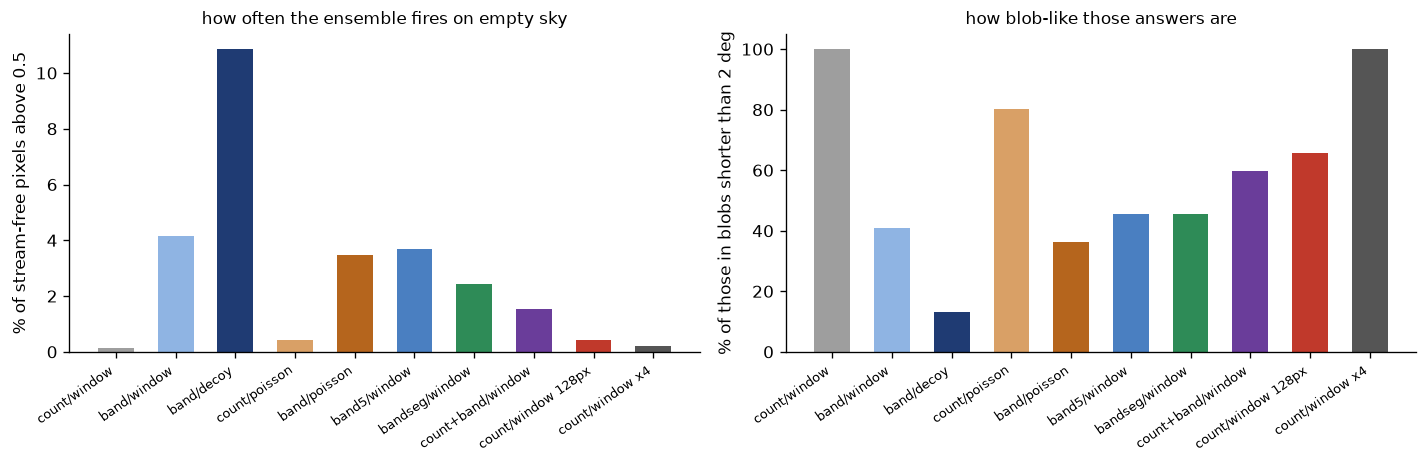
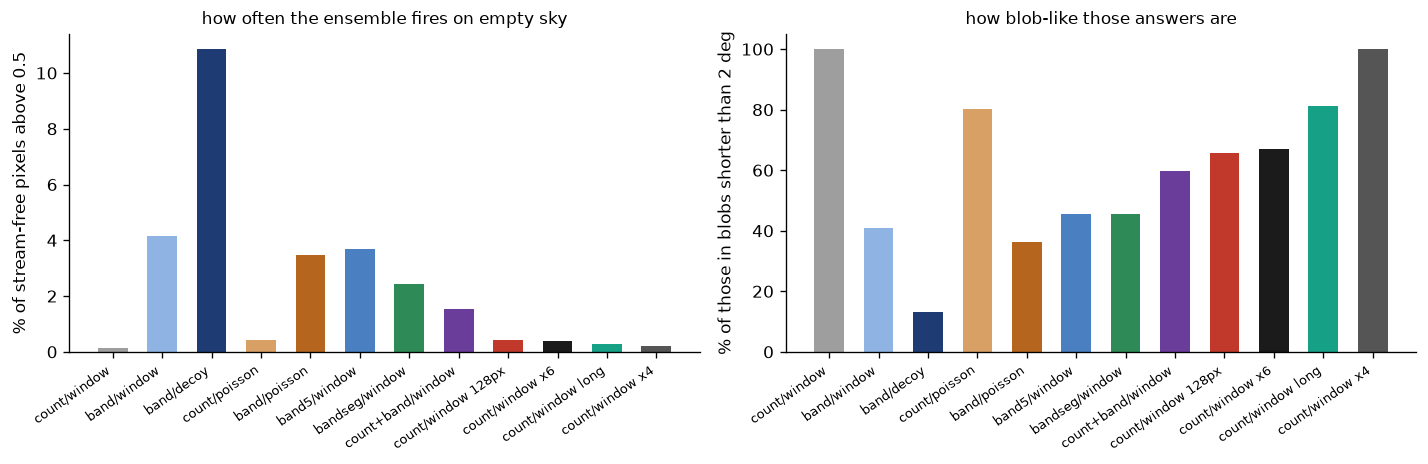
Real DES patches: sensitivity of more models, longer training, larger windows
A fainter evaluation set measures the input S/N at which half the copies are
found. Four quick models: near 12.1, far 8.9 (86% of copies); six, 19200
windows or 128-pixel windows do not do better.

Changed region(s): [[0.5238, 0.1207, 0.9552, 0.9655], [0.0308, 0.0905, 0.4622, 0.9655]]

diff --git a/scripts/experiments/real_des/patches.py b/scripts/experiments/real_des/patches.py
@@ -81,6 +81,14 @@ CONFIGS = {
     },
     # larger windows: 128 x 128 pixels (14.7 deg) instead of 96 (11 deg)
     "count/window 128px": {"label": "count", "normalizer": "window", "image_pix": 128},
+    # sensitivity levers: six quick models; two models trained four times longer
+    "count/window x6": {
+        "label": None,
+        "normalizer": "window",
+        "parts": ["count/window"],
+        "seeds": [42, 43, 44, 45, 46, 47],
+    },
+    "count/window long": {"label": "count", "normalizer": "window", "windows": 19200},
     # its fair reference: as many count-label models (four seeds)
     "count/window x4": {
         "label": None,
@@ -291,9 +299,10 @@ def train(config, seed, train_sky="A"):
         CONFIGS[config].get("image_pix", IMAGE_PIX),
     )
     start = time.time()
+    windows = CONFIGS[config].get("windows", WINDOWS)
     model, _, result = sp.train(
         seed,
-        WINDOWS,
+        windows,
         background,
         injector,
         training_set=rd.TRAINING_SET,
@@ -305,7 +314,7 @@ def train(config, seed, train_sky="A"):
             {
                 "config": config,
                 "seed": seed,
-                "windows": WINDOWS,
+                "windows": windows,
                 "train_s": time.time() - start,
                 "train_losses": result["train_losses"],
                 "val_losses": result["val_losses"],
@@ -402,8 +411,18 @@ def audit(n=300, labels=("count", "band")):
         pickle.dump(rows, handle)
 
 
-def evaluation_streams():
-    """(set, name, params) injected on patch B."""
+FAINTER_BY = (
+    1.0,
+    1.5,
+)  # mag/arcsec^2: the "fainter" set, near the real streams' strength
+
+
+def evaluation_streams(sets=("DES 2018", "distance scan")):
+    """(set, name, params) injected on the evaluation sky. Sets: "DES 2018"
+    (Table 1 parameters), "distance scan", and "fainter" (the DES 2018
+    streams made FAINTER_BY mag/arcsec^2 fainter -- the copies are brighter
+    than the real streams, so this set reaches their strength and measures
+    the detection limit)."""
     from streamgoggles.objects_overlap import DES2018_POPULATIONS
 
     sp = real_des().stream_parameters_module()
@@ -424,6 +443,23 @@ def evaluation_streams():
                 },
             )
         )
+    for name, (width, length, distance, sb) in sp.DES_STREAMS.items():
+        age, z = DES2018_POPULATIONS[name]
+        for fainter in FAINTER_BY:
+            streams.append(
+                (
+                    "fainter",
+                    f"{name} +{fainter:g}",
+                    {
+                        "width": width,
+                        "length": min(length, MAX_LENGTH),
+                        "distance_modulus": distance,
+                        "richness": sb + fainter,
+                        "age": age,
+                        "z": z,
+                    },
+                )
+            )
     for distance in SCAN["distances"]:
         streams.append(
             (
@@ -439,7 +475,7 @@ def evaluation_streams():
                 },
             )
         )
-    return streams
+    return [s for s in streams if s[0] in sets]
 
 
 def shapes(mask, nside):
@@ -477,7 +513,7 @@ def shapes(mask, nside):
     return {"groups": int(n_groups), "blob_share": float(short / pixels.size)}
 
 
-def evaluate(config, seeds=SEEDS, train_sky="A"):
+def evaluate(config, seeds=SEEDS, train_sky="A", sets=("DES 2018", "distance scan")):
     """Score each seed's model, and their average, on patch B."""
     import healpy as hp
     import numpy as np
@@ -530,7 +566,7 @@ def evaluate(config, seeds=SEEDS, train_sky="A"):
             model.eval()
             key = f"{part} seed{seed}" if len(parts) > 1 else f"seed{seed}"
             models[key] = model
-    streams = evaluation_streams()
+    streams = evaluation_streams(sets)
     queries = sorted(
         {
             min(sp.QUERY_GRID, key=lambda q: abs(q - p["distance_modulus"]))
@@ -705,8 +741,12 @@ def evaluate(config, seeds=SEEDS, train_sky="A"):
     out = result_dir(train_sky)
     out.mkdir(parents=True, exist_ok=True)
     name = config.replace("/", "_")
-    pd.DataFrame(rows).to_csv(out / f"evaluation_{name}.csv", index=False)
-    pd.DataFrame(quiet).to_csv(out / f"quiet_{name}.csv", index=False)
+    if tuple(sets) == ("DES 2018", "distance scan"):
+        pd.DataFrame(rows).to_csv(out / f"evaluation_{name}.csv", index=False)
+        pd.DataFrame(quiet).to_csv(out / f"quiet_{name}.csv", index=False)
+    else:  # an extra set: its own file, read with the others by set
+        suffix = "_".join(x.replace(" ", "-") for x in sets)
+        pd.DataFrame(rows).to_csv(out / f"evaluation_{name}__{suffix}.csv", index=False)
 
 
 def label_figures():
@@ -833,6 +873,12 @@ COMPARISONS = {
     ],
     "models": ["count/window", "count/window x4", "count+band/window"],
     "window_size": ["count/window", "count/window 128px"],
+    "models_and_length": [
+        "count/window",
+        "count/window x4",
+        "count/window x6",
+        "count/window long",
+    ],
 }
 # the reference in dark grey, the others in a fixed order
 COMPARISON_COLOURS = ["#4d4d4d", "#1f6fb4", "#e07b39", "#2e8b57", "#8e44ad"]
@@ -913,6 +959,119 @@ def comparison_figures(train_sky="fold0"):
         plt.close(fig)
 
 
+SENSITIVITY_CONFIGS = [
+    "count/window",
+    "count/window x4",
+    "count/window x6",
+    "count/window long",
+    "count/window 128px",
+]
+SNR_EDGES = [0, 4, 6, 8, 10, 13, 17, 22, 30, 60]
+
+
+def half_recovery_snr(rows):
+    """Input S/N at which half the copies are found: binned recovery,
+    interpolated where it crosses 0.5 (NaN if it never does)."""
+    import numpy as np
+    import pandas as pd
+
+    rate = rows.groupby(pd.cut(rows.input_snr, SNR_EDGES), observed=True).detected.agg(
+        ["mean", "size"]
+    )
+    rate = rate[rate["size"] >= 4]
+    centres = np.array([np.sqrt(max(b.left, 1) * b.right) for b in rate.index])
+    values = rate["mean"].to_numpy()
+    for i in range(1, len(values)):
+        if values[i - 1] < 0.5 <= values[i]:
+            f = (0.5 - values[i - 1]) / (values[i] - values[i - 1])
+            return float(
+                np.exp(np.log(centres[i - 1]) + f * np.log(centres[i] / centres[i - 1]))
+            )
+    return float("nan") if values.size == 0 or values[0] < 0.5 else float(centres[0])
+
+
+def sensitivity(train_sky="fold0"):
+    """Recovery against input S/N for each sensitivity configuration, near and
+    far, from the DES 2018 and fainter copies (ensembles), and its 50% point."""
+    import matplotlib
+
+    matplotlib.use("Agg")
+    import matplotlib.pyplot as plt
+    import numpy as np
+    import pandas as pd
+
+    folder = result_dir(train_sky)
+    data = pd.concat(
+        [pd.read_csv(p) for p in sorted(folder.glob("evaluation_*.csv"))],
+        ignore_index=True,
+    )
+    data = data[(data.scorer == "ensemble") & data.set.isin(["DES 2018", "fainter"])]
+    configs = [
+        c
+        for c in SENSITIVITY_CONFIGS
+        if c in set(data.config) and (data[data.config == c].set == "fainter").any()
+    ]
+    colours = dict(zip(configs, COMPARISON_COLOURS, strict=False))
+    fig, axes = plt.subplots(1, 2, figsize=(13, 4.4), sharey=True)
+    rows = []
+    for ax, (label, near) in zip(
+        axes, (("m−M < 16.5", True), ("m−M ≥ 16.5", False)), strict=True
+    ):
+        for config in configs:
+            mine = data[
+                (data.config == config) & ((data.distance_modulus < 16.5) == near)
+            ]
+            rate = mine.groupby(
+                pd.cut(mine.input_snr, SNR_EDGES), observed=True
+            ).detected.agg(["mean", "size"])
+            rate = rate[rate["size"] >= 4]
+            centres = [np.sqrt(max(b.left, 1) * b.right) for b in rate.index]
+            ax.plot(
+                centres, rate["mean"], "o-", color=colours[config], lw=2, label=config
+            )
+            rows.append(
+                {
+                    "config": config,
+                    "streams": label,
+                    "half_recovery_snr": half_recovery_snr(mine),
+                    "recovered": mine.detected.mean(),
+                    "copies": len(mine),
+                }
+            )
+        ax.set_xscale("log")
+        ax.set_xticks([2, 4, 6, 10, 20, 40])
+        ax.set_xticklabels(["2", "4", "6", "10", "20", "40"])
+        ax.minorticks_off()
+        ax.set_title(label, fontsize=10)
+        ax.set_xlabel("S/N of the copy in the matched-filter input")
+        ax.axhline(0.5, color="#b0b0b0", lw=0.8, ls=":")
+        ax.spines[["top", "right"]].set_visible(False)
+    axes[0].set_ylabel("copies recovered (ensemble)")
+    axes[1].legend(frameon=False, fontsize=8, loc="lower right")
+    fig.suptitle(
+        "sensitivity: DES 2018 copies at full and reduced brightness", fontsize=11
+    )
+    fig.tight_layout()
+    fig.savefig(
+        DOC_FIGURES / f"compare_sensitivity_{train_sky}.png",
+        dpi=120,
+        bbox_inches="tight",
+    )
+    plt.close(fig)
+    table = pd.DataFrame(rows)
+    table.to_csv(folder / "sensitivity.csv", index=False)
+    print(
+        table.pivot(index="config", columns="streams", values="half_recovery_snr")
+        .round(1)
+        .to_string()
+    )
+    print(
+        table.pivot(index="config", columns="streams", values="recovered")
+        .round(2)
+        .to_string()
+    )
+
+
 def figures(train_sky="A"):
     """Recovery per configuration: DES 2018 streams, and against distance."""
     import matplotlib
@@ -939,6 +1098,8 @@ def figures(train_sky="A"):
         "count+band/window": "#6a3d9a",
         "count/window x4": "#555555",
         "count/window 128px": "#c0392b",
+        "count/window x6": "#1b1b1b",
+        "count/window long": "#16a085",
     }
 
     fig, axes = plt.subplots(
@@ -1044,6 +1205,12 @@ if __name__ == "__main__":
         "--labels", nargs="+", default=["count", "band"], help="audit: labels"
     )
     parser.add_argument(
+        "--sets",
+        nargs="+",
+        default=["DES 2018", "distance scan"],
+        help="evaluate: which stream sets (DES 2018, distance scan, fainter)",
+    )
+    parser.add_argument(
         "--train-sky",
         choices=list(EVALUATED_ON),
         default="fold0",
@@ -1055,10 +1222,13 @@ if __name__ == "__main__":
     elif arguments.step == "train":
         train(arguments.config, arguments.seed, arguments.train_sky)
     elif arguments.step == "evaluate":
-        evaluate(arguments.config, train_sky=arguments.train_sky)
+        evaluate(
+            arguments.config, train_sky=arguments.train_sky, sets=tuple(arguments.sets)
+        )
     elif arguments.step == "label-figures":
         label_figures()
     else:
         figures(arguments.train_sky)
         if arguments.train_sky != "A":
             comparison_figures(arguments.train_sky)
+            sensitivity(arguments.train_sky)

diff --git a/docs/source/experiments/real_des/labels_normalization.md b/docs/source/experiments/real_des/labels_normalization.md
@@ -9,8 +9,10 @@ teaches the model blobs, and whether normalizing by the decoy channel helps.
 **Status: done (2026-09-29, branch `des-clean-training`).**
 
 **In short.** Keep the count label and the per-window normalization, and use
-more models: four quick count-label models recover 86% of the DES 2018 copies
-on sky they never saw. Keep the per-window normalization: normalizing by the decoy
+four models: four quick count-label models recover 86% of the DES 2018 copies
+on sky they never saw; six, longer training or larger windows add nothing,
+and none lowers the detection limit for distant streams below an input S/N
+of about 9. Keep the per-window normalization: normalizing by the decoy
 fails (the decoy's density follows Galactic latitude, the isochrone channels'
 does not), and by counting noise is 14-17 points worse. The band label does
 what it was designed to — every label one elongated band, and the model's own
@@ -306,6 +308,42 @@ below about 15 points are within the noise of two seeds and eight
 placements. A larger window also means fewer windows' worth of sky per
 pixel for the same training length; it may need a longer training to pay.
 
+### Sensitivity: more models, longer training
+
+The detection limit ({doc}`recovery`) is the bar to clear, so the scoring
+also measures it: a **fainter** set, the DES 2018 copies made 1 and 1.5
+mag/arcsec² fainter (near the real streams' strength), and from it and the
+full-brightness copies, the input S/N at which half the copies are found, for
+near and distant streams (`sensitivity`). Two levers, with the count label and
+the per-window normalization: more quick models (4 and 6 instead of 2), and
+two models trained four times longer (19,200 windows).
+
+```{image} ../figures/real_des_patches/compare_sensitivity_fold0.png
+:alt: Recovery of DES 2018 copies against their input S/N, per configuration, near and distant streams
+:width: 100%
+```
+
+```{image} ../figures/real_des_patches/compare_models_and_length_fold0.png
+:alt: Two, four and six quick models, and two long ones
+:width: 100%
+```
+
+| | DES 2018 copies | m−M 15 | half-recovery input S/N, near | far |
+|---|---|---|---|---|
+| 2 quick models (reference) | 82% | 12% | 14.6 | 8.9 |
+| **4 quick models** | **86%** | 38% | **12.1** | 8.9 |
+| 6 quick models | 86% | 38% | 12.3 | 8.9 |
+| 2 long models (19,200 windows) | 80% | **62%** | 13.9 | 11.3 |
+| 128-pixel windows (2 quick models) | 80% | 38% | 15.2 | 12.7 |
+
+**Averaging helps up to four models, then stops**: four lower the limit for
+near streams from 14.6 to 12.1 and recover 86% of the copies; six add
+nothing. **Training four times longer does not help**: better on the bright
+m−M 15 scan (62%), worse on faint distant streams (limit 11.3). And **for
+distant streams no lever moves the limit below an input S/N of about 9**: the
+curves of two, four and six models lie on one another. The limit is not the
+models' spread; it is what this network, scored this way, can do.
+
 ### The sky
 
 **Train on a wide sky.** One patch of 600 deg² does not transfer (round
@@ -319,9 +357,8 @@ pixel for the same training length; it may need a longer training to pay.
   quick tier's seed spread is up to 8 points here.
 - ~~Both models together~~: tried (round 2d); four count-label models match
   it with fewer false alarms.
-- **More count-label models, or longer ones**: going from two to four quick
-  models gained 4 points and the nearest distance; six, and the 19200-window
-  tier, are the next steps for the real-data training.
+- ~~More count-label models, or longer ones~~: tried; four quick models are
+  the best (86%, near limit 12.1); six and longer add nothing.
 
 ## Reproducing
 
